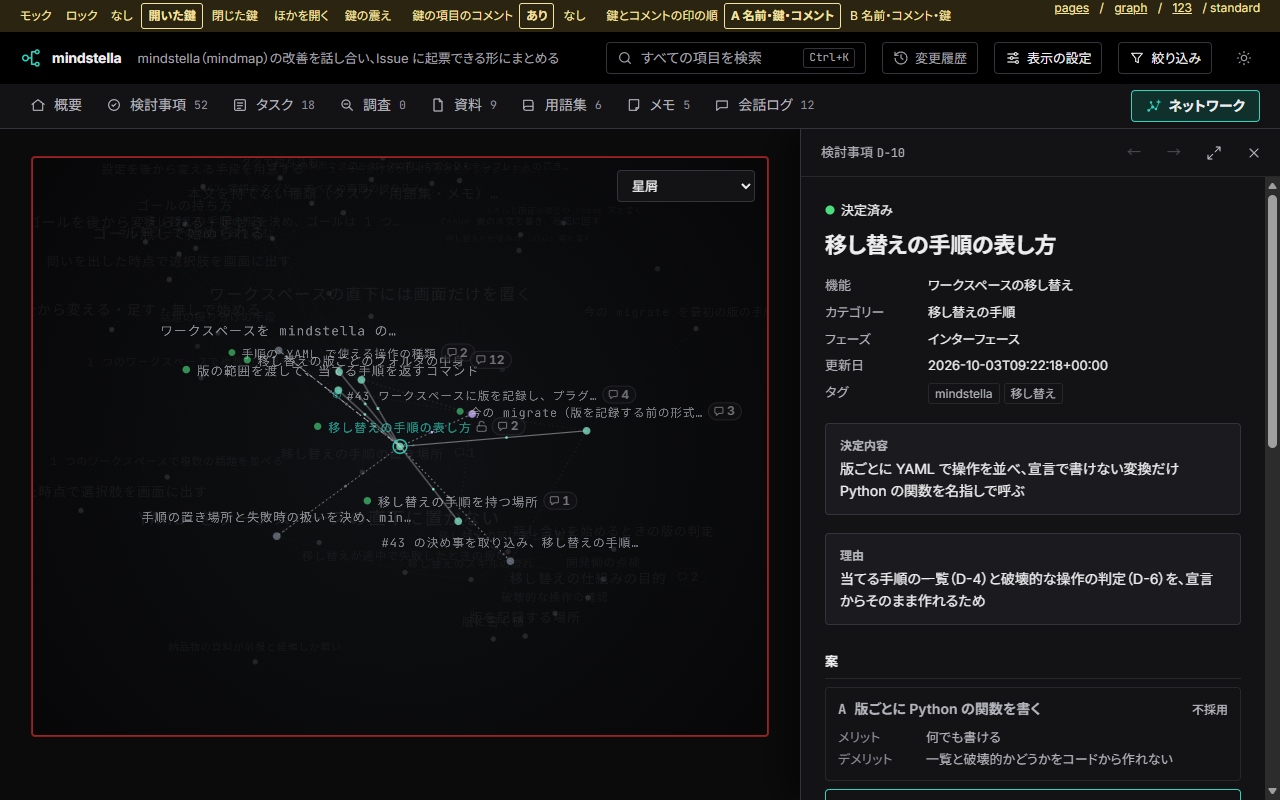
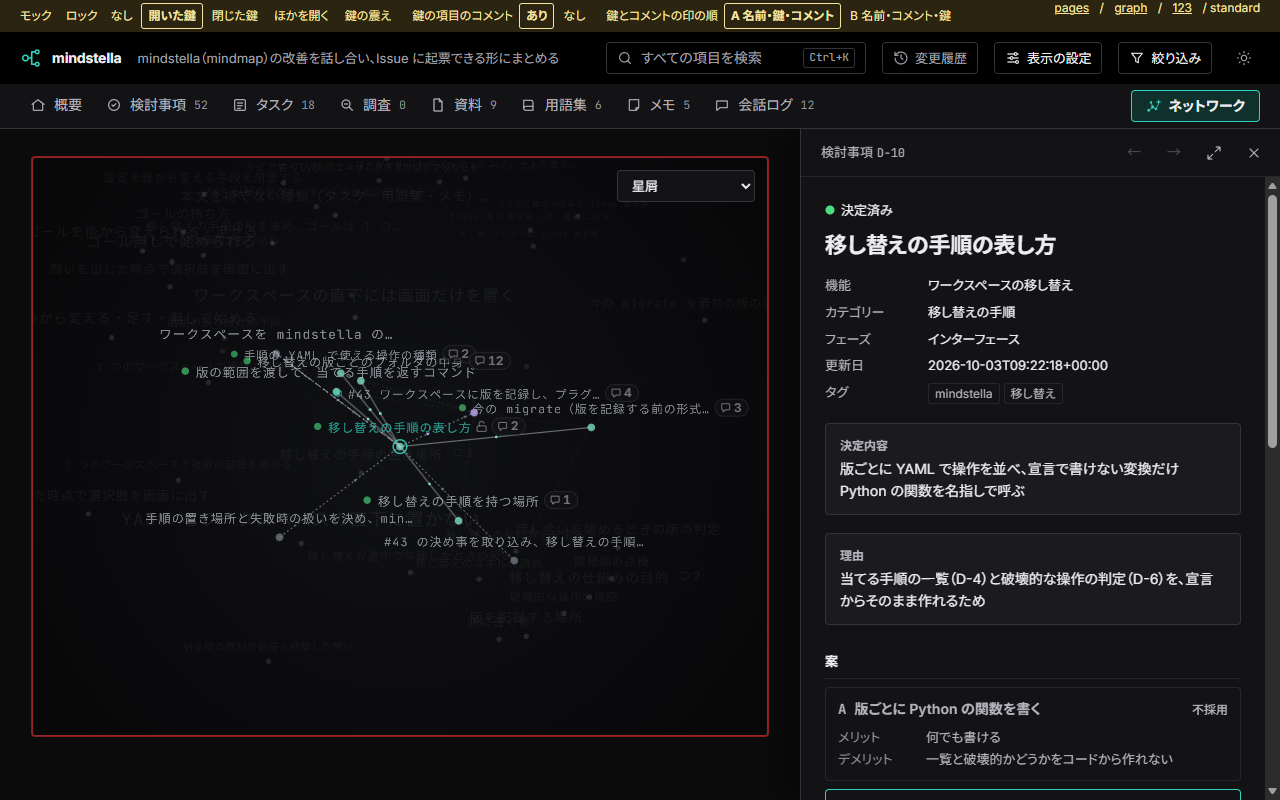
mock: ネットワークの鍵を出すときだけ名前とコメントの印の間に鍵の幅を空け、乗せない・乗せたときを撮る

Changed region(s): [[0.125, 0.4062, 0.5938, 0.5625], [0.0938, 0.625, 0.5, 0.6875]]

diff --git a/dev/mock/refs/123/assets/app.js b/dev/mock/refs/123/assets/app.js
@@ -7709,6 +7709,8 @@ var MindmapPreview;
             const lockedId = lockOf("graph");
             const keyView = views.find((view) => view.n.id === (lockedId !== null && ballById.has(lockedId) ? lockedId : current)) ?? null;
             const keyClosed = keyView !== null && keyView.n.id === lockedId;
+            // 鍵を出すか: 閉じた鍵はロック中いつも、開いた鍵は詳細を開いている玉にカーソルを乗せたときだけ
+            const keyShown = keyView !== null && (keyClosed || hover === keyView.n.id || window.MOCK123?.demo === "open");
             /** 鍵とコメントの印の順（A: 名前・鍵・コメントの印 / B: 名前・コメントの印・鍵）。モックで見比べるために切り替える */
             const keyFirst = (window.MOCK123?.order ?? "A") === "A";
             /** 鍵の中心（名前が出ない距離では、玉の右上の札） */
@@ -7752,8 +7754,8 @@ var MindmapPreview;
                 const count = commentCounts[ball.id] ?? 0;
                 const hasComment = count > 0 && fontSize >= COMMENT_MARK_MIN_FONT;
                 const slot = hasComment ? markSlotOf(ball.id, count) : null;
-                const keyHere = view === keyView;
-                // A は名前のすぐ右に鍵、その右にコメントの印。B は名前のすぐ右にコメントの印、その右に鍵
+                const keyHere = view === keyView && keyShown;
+                // A は名前のすぐ右に鍵、その右にコメントの印。B は名前のすぐ右にコメントの印、その右に鍵。鍵を出さないときは鍵の幅を空けない
                 const keyWidth = keyHere ? KEY_GAP + KEY_SIZE : 0;
                 const left = nameRight + (keyFirst ? keyWidth : 0) + COMMENT_MARK_GAP;
                 if (keyHere) {
@@ -7780,8 +7782,7 @@ var MindmapPreview;
             if (keyView !== null) {
                 // 名前が出ていない遠い距離では、玉の右上に札に入れて置く
                 const spot = keySpot ?? { x: keyView.p.sx + keyView.rad * 0.8 + 8, y: keyView.p.sy - keyView.rad * 0.8 - 8, badge: true, alpha: 1 };
-                const shown = keyClosed || hover === keyView.n.id || window.MOCK123?.demo === "open";
-                if (shown) {
+                if (keyShown) {
                     // 外れない操作をされた直後は、赤くして左右に震わせ、だんだん収める
                     const elapsed = now - shakeStart;
                     const shaking = keyClosed && elapsed < SHAKE_MS;

diff --git a/dev/mock/components/network-label/index.html b/dev/mock/components/network-label/index.html
@@ -140,7 +140,7 @@
         ["遠い距離（名前が出ない）", "名前と印が消える距離では、玉の右上の札に鍵を入れる。コメントの印は、名前が出ない距離では出さない。", { name: "保存の形式", badge: true, selected: true, cm: 2 }],
         ["コメントの印（鍵なし）", "コメントを書いた項目は、名前を 8px 以上で描く距離で、名前の右に吹き出しと件数の印を名前と同じ濃さで出す。", { name: "保存の形式", mark: "要見直し", cm: 2 }],
         ["鍵とコメントの印の順: 閉じた鍵", "A は名前・鍵・コメントの印、B は名前・コメントの印・鍵。", { name: "保存の形式", mark: "要見直し", selected: true, key: "locked", cm: 2 }, true],
-        ["鍵とコメントの印の順: 開いた鍵", "詳細を開いている玉は、開いた鍵の分の場所をいつも空けておき、カーソルを乗せても印が動かないようにする。", { name: "保存の形式", mark: "要見直し", selected: true, key: "open", cm: 2 }, true],
+        ["鍵とコメントの印の順: 開いた鍵", "開いた鍵は詳細を開いている玉にカーソルを乗せたときだけ出し、出している間だけ鍵の幅を空ける。A では乗せたときにコメントの印が鍵 1 つ分右へ動く。", { name: "保存の形式", mark: "要見直し", selected: true, key: "open", cm: 2 }, true],
         ["鍵とコメントの印の順: ロック中にほかの項目を開いた", "", { name: "保存の形式", mark: "要見直し", key: "locked", cm: 12 }, true],
         ["鍵とコメントの印の順: 鍵の震え", "", { name: "保存の形式", mark: "要見直し", key: "locked", shake: true, cm: 2 }, true],
         ["鍵とコメントの印の順: コメントの無い項目", "コメントが無ければ、A も B も鍵は名前のすぐ右に付く。", { name: "保存の形式", mark: "要見直し", selected: true, key: "locked" }, true],
